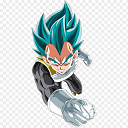
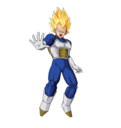
pintando imagenes en applet

Changed region(s): [[0.2231, 0.0, 0.7686, 1.0]]

diff --git a/src/Pintar.java b/src/Pintar.java
@@ -2,6 +2,8 @@
 import java.applet.Applet;
 import java.awt.Color;
 import java.awt.Graphics;
+import java.awt.Image;
+import java.util.ArrayList;
 import javax.swing.ImageIcon;
 
 /*
@@ -9,27 +11,108 @@ import javax.swing.ImageIcon;
  * To change this template file, choose Tools | Templates
  * and open the template in the editor.
  */
-
 /**
  *
  * @author BRYAN10
  */
-public class Pintar extends Applet{
-    ImageIcon imagenIcono; 
+public class Pintar extends Applet {
+
     final int ANCHO_PANTALLA = 800;
-    final int ALTO_PANTALLA = 800;  
-    
-    public void init(){
+    final int ALTO_PANTALLA = 800;
+    ArrayList<Personaje> enemigos = new ArrayList<>();
+    Personaje goku = null, freezer = null, boo = null, vegeta = null, broly = null, kameHa = null;
+
+    public void init() {
         resize(ANCHO_PANTALLA, ALTO_PANTALLA);
-       
+
     }
-    public void paint(Graphics g){
-        fondo(g);}
-    
-    public void fondo(Graphics g){
-        imagenIcono = new ImageIcon(getClass().getResource("/img/mundo.jpg"));
-        g.drawImage(imagenIcono.getImage(), ANCHO_PANTALLA, ALTO_PANTALLA, this);
-       
+
+    public void paint(Graphics g) {
+        pintarMundo(g);
+        crearHeroe(g);
+        crearEnemigos(g);
+
     }
-    
+
+    private Image obtenerImagen(String imagen) {
+        String ruta = "/img/" + imagen;
+        ImageIcon img = new ImageIcon(getClass().getResource(ruta));
+        return img.getImage();
+    }
+
+    private void crearHeroe(Graphics g) {
+        goku = new Personaje("Goku", "heroe.png", 0, 200);
+        goku.pintar(g, this);
+
+        kameHa = new Personaje("Hame-Ha", "kame-ha.png", 100, 230);
+        kameHa.pintar(g, this);
+
+    }
+
+    private void pintarMundo(Graphics g) {
+        Image mundo = obtenerImagen("mundo.jpg");
+        g.drawImage(mundo, 0, 0, this);
+
+    }
+
+    private void crearEnemigos(Graphics g) {
+
+        freezer = new Personaje("Freezer", "01-enemigo.png", 680, 90);
+        enemigos.add(freezer);
+        freezer.pintar(g, this);
+        //freezer.mensaje("Hola cacaroto soy " + freezer.getNombre());
+        esperar(500);
+        boo = new Personaje("Majin Boo", "02-enemigo.png ", 680, 260);
+        enemigos.add(boo);
+        boo.pintar(g, this);
+        //boo.mensaje("Hola cacaroto soy " + boo.getNombre());
+        esperar(500);
+        vegeta = new Personaje("Vegeta", "04-enemigo.png", 680, 430);
+        enemigos.add(vegeta);
+        vegeta.pintar(g, this);
+        //vegeta.mensaje("Hola cacaroto soy " + vegeta.getNombre() + "\n Estupido Sayayin");
+        esperar(500);
+        broly = new Personaje("Broly", "03-enemigo.png", 680, 590);
+        enemigos.add(broly);
+        broly.pintar(g, this);
+        //broly.mensaje("Hola cacaroto soy " + broly.getNombre());
+
+        int i = 680, desplazamiento = 50;
+
+        while (i > 150) {
+            limpiarPantalla(g);
+            pintarMundo(g);
+            crearHeroe(g);
+            
+            freezer.pintar(g, this);
+            freezer.setX(freezer.getX() - desplazamiento);
+            esperar(100);
+
+            boo.pintar(g, this);
+            boo.setX(boo.getX() - desplazamiento);
+            esperar(100);
+
+            vegeta.pintar(g, this);
+            vegeta.setX(vegeta.getX() - desplazamiento);
+            esperar(100);
+
+            broly.pintar(g, this);
+            broly.setX(broly.getX() - desplazamiento);
+            esperar(100);
+            i -= desplazamiento;
+        }
+
+    }
+
+    private void limpiarPantalla(Graphics g) {
+        g.clearRect(0, 0, ANCHO_PANTALLA, ALTO_PANTALLA);
+    }
+
+    private void esperar(int s) {
+        try {
+            Thread.sleep(s);
+        } catch (InterruptedException ex) {
+            System.err.println("[ERROR]: " + ex.getMessage());
+        }
+    }
 }

diff --git a/src/Personaje.java b/src/Personaje.java
@@ -1,0 +1,125 @@
+
+import java.awt.Container;
+import java.awt.Graphics;
+import java.awt.Image;
+import javax.swing.ImageIcon;
+import javax.swing.JOptionPane;
+
+/*
+ * To change this license header, choose License Headers in Project Properties.
+ * To change this template file, choose Tools | Templates
+ * and open the template in the editor.
+ */
+/**
+ *
+ * @author Jesus Salcedo
+ */
+public class Personaje {
+    private boolean estado_juego = true;
+    public int posInicio,posFin;
+    private String nombre;
+    private String imagen;
+    private int x, y;
+    private ImageIcon imagenIcono;
+    //private ImageIcon kameHa;
+
+    public Personaje(String nombre, String imagen, int x, int y) {
+        this.nombre = nombre;
+        this.imagen = imagen;
+        this.x = x;
+        this.y = y;
+        this.imagenIcono = new ImageIcon(getClass().getResource("/img/" + imagen));
+       // this.kameHa = new ImageIcon(getClass().getResource("/img/" + imagen));
+    }
+
+    public String getNombre() {
+        return nombre;
+    }
+
+    public void setNombre(String nombre) {
+        this.nombre = nombre;
+    }
+
+    public String getImagen() {
+        return imagen;
+    }
+
+    public void setImagen(String imagen) {
+        this.imagen = imagen;
+    }
+
+    public int getX() {
+        return x;
+    }
+
+    public void setX(int x) {
+        this.x = x;
+    }
+
+    public int getY() {
+        return y;
+    }
+
+    public void setY(int y) {
+        this.y = y;
+    }
+
+    public int getPosInicio() {
+        return posInicio;
+    }
+
+    public void setPosInicio(int posInicio) {
+        this.posInicio = posInicio;
+    }
+
+    public int getPosFin() {
+        return posFin;
+    }
+
+    public void setPosFin(int posFin) {
+        this.posFin = posFin;
+    }
+    
+
+    public void trasladar(int dx, int dy) {
+        this.x = this.x + dx;
+        this.y = this.y + dy;
+    }
+
+    public void pintar(Graphics g, Container con) {
+
+        g.drawImage(imagenIcono.getImage(), x, y, con);
+
+    }
+
+    public synchronized void lanzarKameHa(int kameHa) {
+        while (estado_juego == false) {
+            try {
+                wait();
+            } catch (InterruptedException e) {
+            }
+
+        }
+        estado_juego = false;
+        notifyAll();
+
+    }
+
+    public synchronized void apuntar() {
+        while (estado_juego == true) {
+            try {
+                wait();
+            } catch (InterruptedException e) {
+            }
+
+        }
+        estado_juego = true;
+        notifyAll();
+
+    }
+    
+    public void mensaje (String msj){
+        JOptionPane.showMessageDialog(null , ""+msj);
+    }
+
+}
